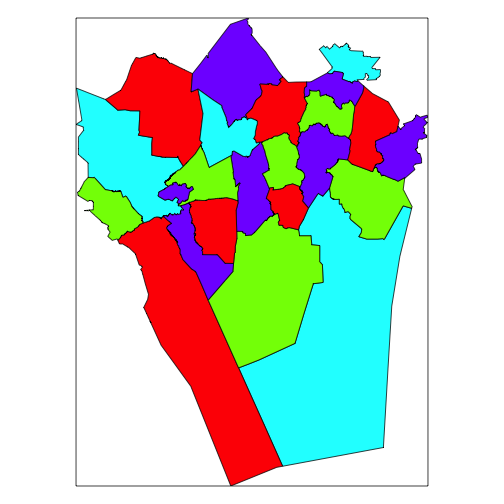
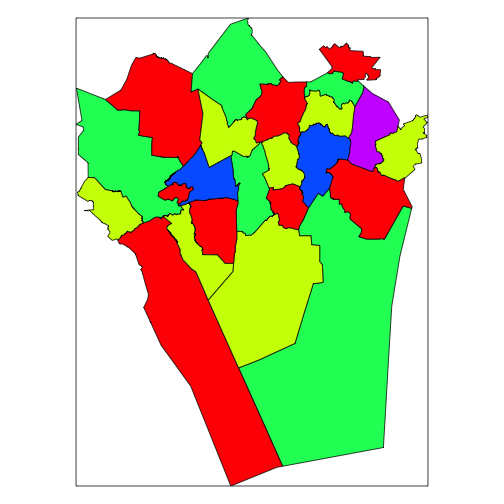
Updated tutorial (removed gcolor map colour stuff)

diff --git a/vignettes/fingis_tutorial.md b/vignettes/fingis_tutorial.md
@@ -92,11 +92,11 @@ spplot(sp.suuralue, zcol = "Name")
 ![plot of chunk hkk-suuralue1](figure/hkk-suuralue1.png) 
 
 
-There are two algorithms available for generating nice region colours with separable adjacent regions in function `generate_map_colours()`. Here algorithm 2 is used and the map is plotted with `spplot()`.
+Function `generate_map_colours()` generates nice region colours with separable adjacent regions. This is used here for plotting and colouring the regions with `spplot()`.
 
 
 ```r
-sp.suuralue@data$COL <- factor(generate_map_colours(sp = sp.suuralue, algorithm = 2))
+sp.suuralue@data$COL <- factor(generate_map_colours(sp = sp.suuralue))
 spplot(sp.suuralue, zcol = "COL", col.regions = rainbow(length(levels(sp.suuralue@data$COL))), 
     colorkey = FALSE)
 ```
@@ -116,7 +116,7 @@ sp.suuralue.piste <- get_Helsinki_aluejakokartat(map.specifier = "suuralue_piste
 
 ```
 ## OGR data source with driver: KML 
-## Source: "/var/folders/6h/s1qsd2q557nfghh2vmc77m2c0000gn/T//RtmpLgunVW/PKS_suuralue_piste.kml", layer: "pks_suuralue_piste"
+## Source: "/var/folders/6h/s1qsd2q557nfghh2vmc77m2c0000gn/T//RtmpJN2vx9/PKS_suuralue_piste.kml", layer: "pks_suuralue_piste"
 ## with 23 features and 2 fields
 ## Feature type: wkbPoint with 3 dimensions
 ```
@@ -329,8 +329,8 @@ Plot municipalities (kunnat) with `spplot()`, using colours from `generate_map_c
 
 
 ```r
-# Get region colouring for municipalities using algorithm 1
-sp.mml@data$COL <- factor(generate_map_colours(sp.mml, algorithm = 1))
+# Get region colouring for municipalities
+sp.mml@data$COL <- factor(generate_map_colours(sp.mml))
 # Plot the shape file, colour municipalities
 spplot(sp.mml, zcol = "COL", col.regions = rainbow(length(levels(sp.mml@data$COL))), 
     colorkey = FALSE)
@@ -449,13 +449,12 @@ sessionInfo()
 ## [1] stats     graphics  grDevices utils     datasets  methods   base     
 ## 
 ## other attached packages:
-##  [1] mapproj_1.2-2      maps_2.3-6         rgeos_0.3-4       
-##  [4] maptools_0.8-29    knitr_1.5          ggmap_2.3         
-##  [7] fingis_0.9.10      gcolor_1.0         RColorBrewer_1.0-5
-## [10] XML_3.95-0.2       ggplot2_0.9.3.1    spdep_0.5-71      
-## [13] Matrix_1.1-2-2     RCurl_1.95-4.1     bitops_1.0-6      
-## [16] rjson_0.2.13       rgdal_0.8-16       sp_1.0-14         
-## [19] roxygen2_3.1.0    
+##  [1] mapproj_1.2-2      maps_2.3-6         ggmap_2.3         
+##  [4] rgeos_0.3-4        maptools_0.8-29    knitr_1.5         
+##  [7] fingis_0.9.10      RColorBrewer_1.0-5 XML_3.95-0.2      
+## [10] ggplot2_0.9.3.1    spdep_0.5-71       Matrix_1.1-2-2    
+## [13] RCurl_1.95-4.1     bitops_1.0-6       rjson_0.2.13      
+## [16] rgdal_0.8-16       roxygen2_3.1.0     sp_1.0-14         
 ## 
 ## loaded via a namespace (and not attached):
 ##  [1] boot_1.3-10         brew_1.0-6          coda_0.16-1        
@@ -463,11 +462,12 @@ sessionInfo()
 ##  [7] dichromat_2.0-0     digest_0.6.4        evaluate_0.5.1     
 ## [10] foreign_0.8-60      formatR_0.10        grid_3.0.3         
 ## [13] gtable_0.1.2        labeling_0.2        lattice_0.20-27    
-## [16] LearnBayes_2.12     MASS_7.3-30         munsell_0.4.2      
-## [19] nlme_3.1-115        plyr_1.8.1          png_0.1-7          
-## [22] proto_0.3-10        Rcpp_0.11.1         reshape2_1.2.2     
-## [25] RgoogleMaps_1.2.0.5 RJSONIO_1.0-3       scales_0.2.3       
-## [28] splines_3.0.3       stringr_0.6.2       tools_3.0.3
+## [16] LearnBayes_2.12     markdown_0.6.4      MASS_7.3-30        
+## [19] munsell_0.4.2       nlme_3.1-115        plyr_1.8.1         
+## [22] png_0.1-7           proto_0.3-10        Rcpp_0.11.1        
+## [25] reshape2_1.2.2      RgoogleMaps_1.2.0.5 RJSONIO_1.0-3      
+## [28] scales_0.2.3        splines_3.0.3       stringr_0.6.2      
+## [31] tools_3.0.3
 ```
 
 
